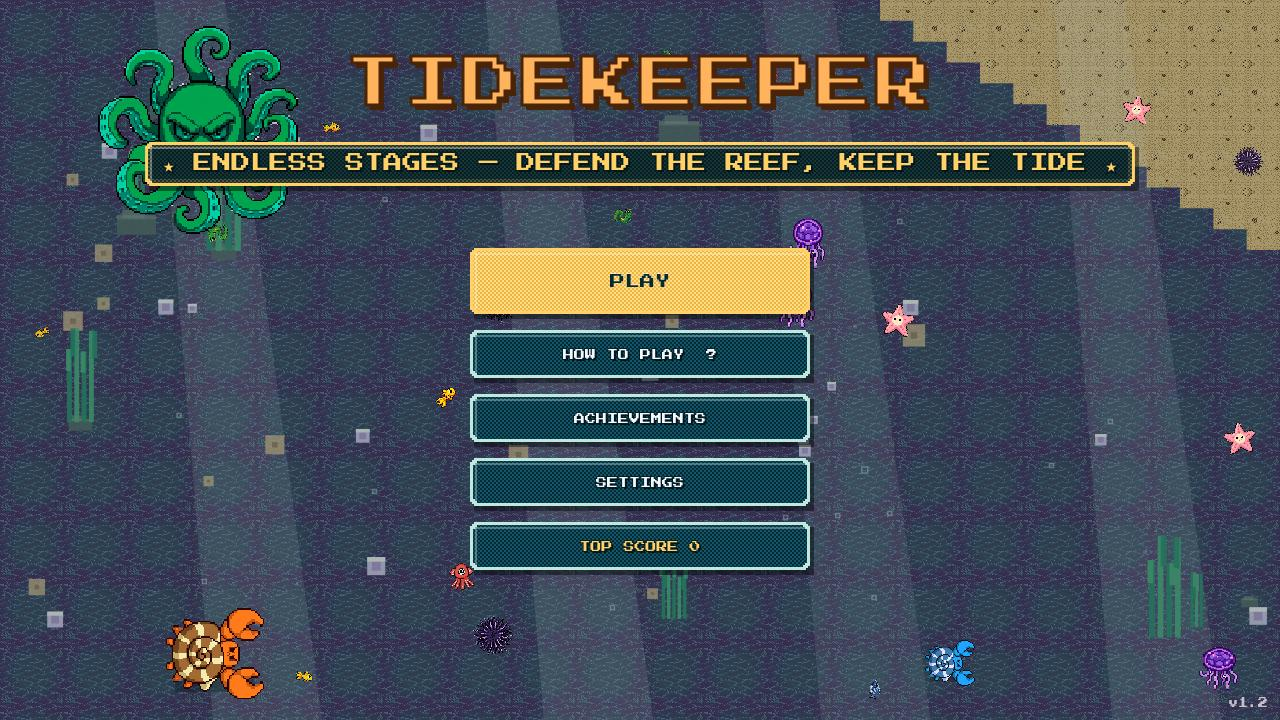
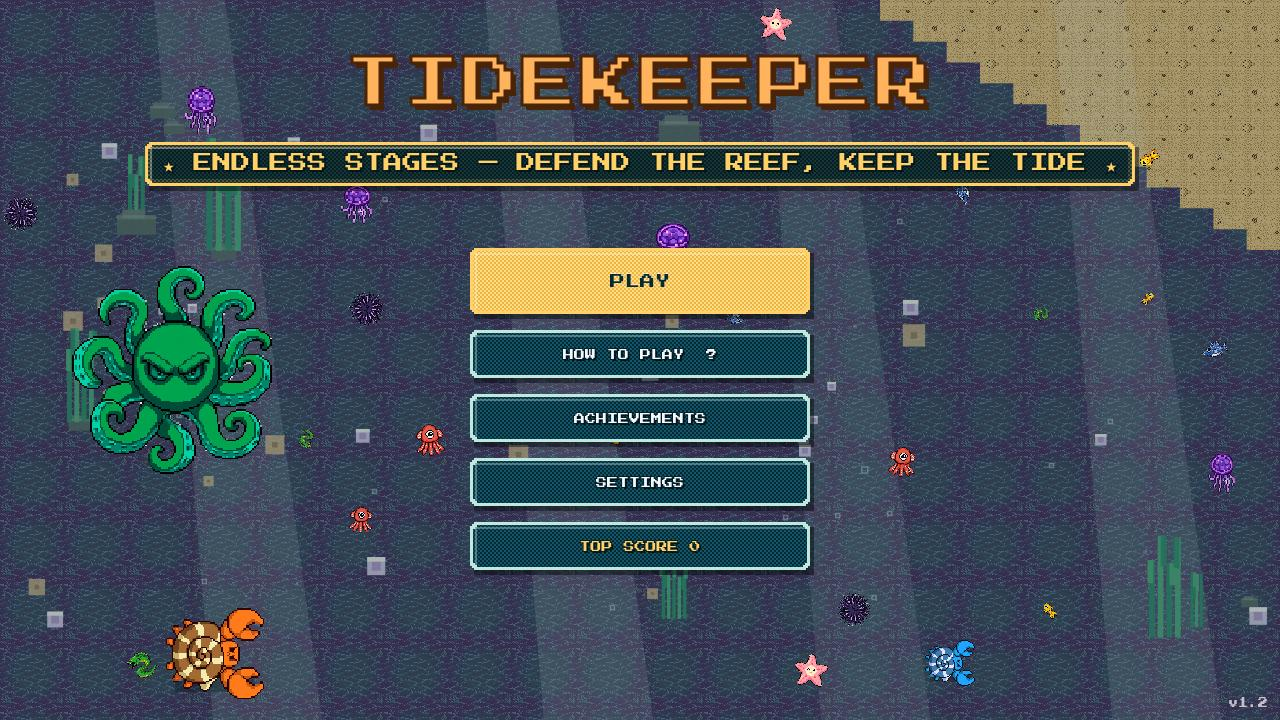
v1.2: title swim-by boss moves to menu height (y 130->370) so the tagline no longer covers its tentacles; re-take 2-start.jpg with boss fully clear on the left

diff --git a/game/src/render/title.js b/game/src/render/title.js
@@ -25,7 +25,7 @@ function drawAmbient(ctx, state) {
   }
   if (tt < 60) {
     const def = BOSS_TYPES[BOSS];
-    drawEnemy(ctx, { type: BOSS, x: BOSS_X0 * POOL.x1 + (tt / 60) * (POOL.x1 + 160) - 80, y: 130, r: def.r * 1.2,
+    drawEnemy(ctx, { type: BOSS, x: BOSS_X0 * POOL.x1 + (tt / 60) * (POOL.x1 + 160) - 80, y: 370, r: def.r * 1.2,
       color: def.color, dark: def.dark, hp: 1, maxHp: 1, wob: 0 }, tt, 0);
   }
   return tt;
